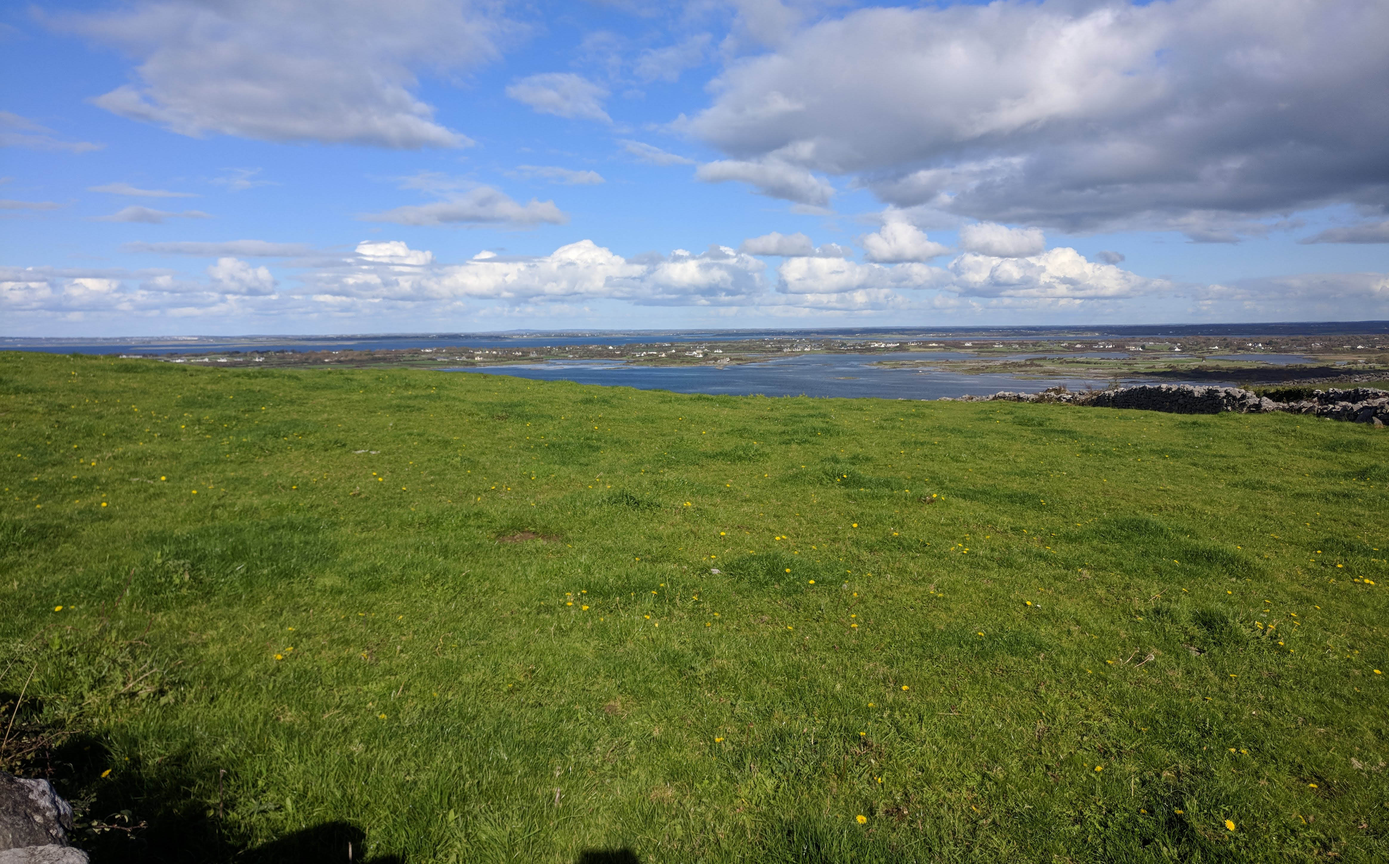
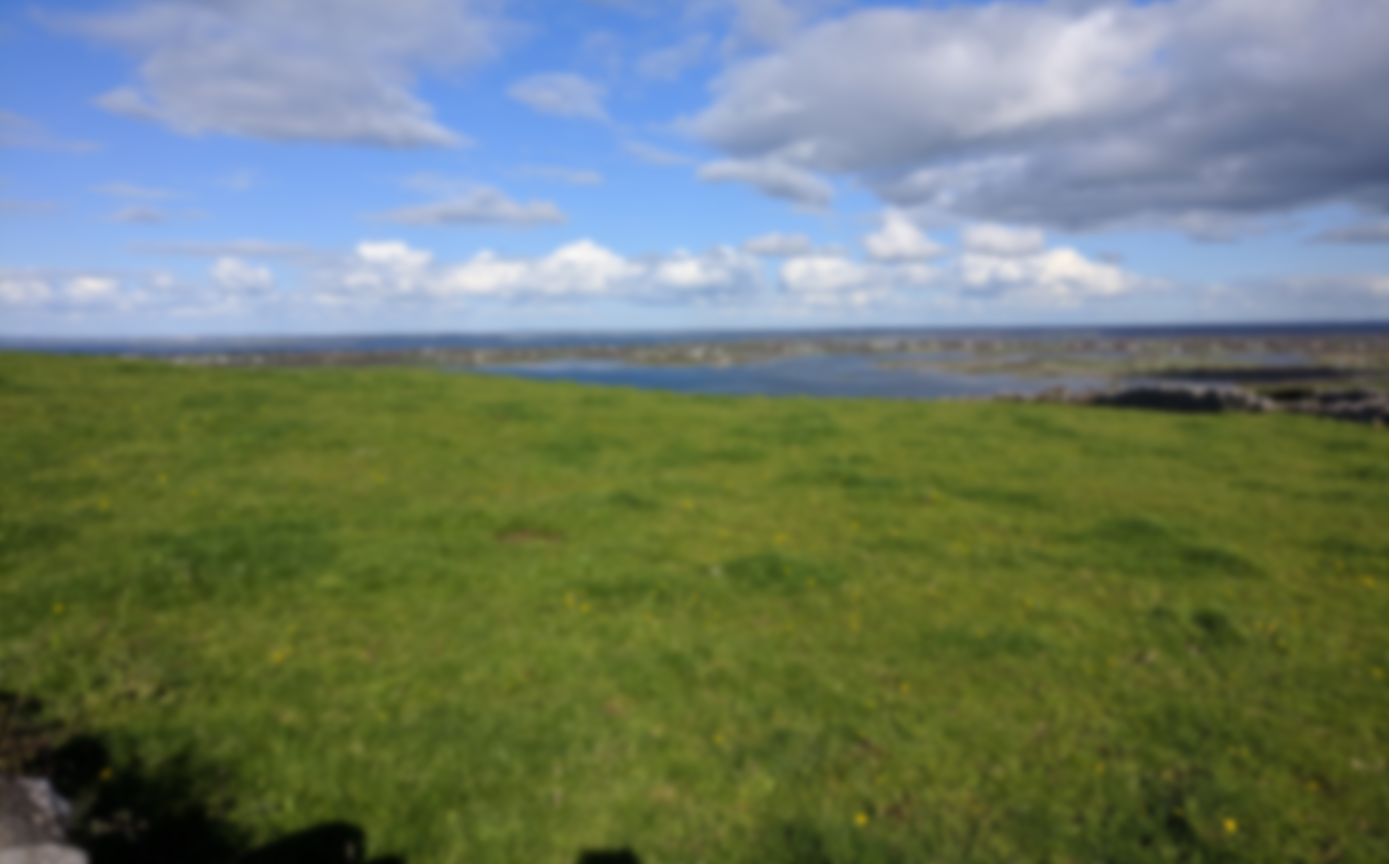
Moved Title on Homepage to be directly behind the background, Added Steam Copyright Notice, Edited some Images

diff --git a/pages/index.vue b/pages/index.vue
@@ -4,20 +4,9 @@
       <v-parallax src="/images/GreenCutted.jpg" height="700">
         <v-container>
           <v-layout align-center justify-center column fill-height>
-            <v-flex xs10 md8 lg6>
-              <v-card>
-                <v-card-title class="display-1">
-                  <v-layout row justify-center>
-                    Willkommen!
-                  </v-layout>
-                </v-card-title>
-                <v-card-text>
-                  Mein Name ist Falk Drieschner, bin Männlich, {{ $moment().diff($moment('1999-02-01'), 'years') }} Jahre alt und aktuell Auszubildender für den Beruf "Fachinformatiker/-in Fachbereich Anwendungsentwicklung".<br>
-                  Anwendungsentwicklung ist nicht nur mein Job sondern auch meine Leidenschaft.<br>
-                  Online bewege ich mich vielfach unter dem Synonym "Chickenbread", manchmal auch mit den Anhängen "lp" oder "-Designs".
-                </v-card-text>
-              </v-card>
-            </v-flex>
+            <p class="display-2 text--elevation-5">
+              Willkommen!
+            </p>
           </v-layout>
         </v-container>
       </v-parallax>
@@ -28,8 +17,15 @@
         <v-flex xs10 md8 lg6>
           <div width="100%">
             <p>
-              In meiner Freizeit entwickle ich gerne kleinere Hilfsanwendungen und helfe bei anderen Open-Source Projekten mit.<br>
+              Mein Name ist Falk Drieschner, bin Männlich, {{ $moment().diff($moment('1999-02-01'), 'years') }} Jahre alt und aktuell Auszubildender für den Beruf "Fachinformatiker/-in Fachbereich Anwendungsentwicklung".<br>
+              Anwendungsentwicklung ist nicht nur mein Job sondern auch meine Leidenschaft.<br>
+              In meiner Freizeit entwickle ich gerne kleinere Hilfsanwendungen und helfe bei anderen Open-Source Projekten mit.
+            </p>
+            <p>
               Ganz unten, auf jeder Seite, finden Sie Kontakmöglichkeiten.<br>
+              Online bewege ich mich vielfach unter dem Synonym "Chickenbread", manchmal auch mit den Anhängen "lp" oder "-Designs".
+            </p>
+            <p>
               Ich habe ein sehr großes Interessen-Spektrum.<br>
               Soft- und Hardware, Virtualisierung und Emulation, Videobearbeitung und Steaming. Nur um ein paar Beispiele zu nennen.
             </p>
@@ -72,6 +68,7 @@
                             align-center
                             justify-center
                             ma-0
+                            style="filter: none;"
                           >
                             <v-progress-circular indeterminate color="grey lighten-5"></v-progress-circular>
                           </v-layout>
@@ -160,3 +157,18 @@ export default {
   }
 }
 </script>
+
+<style>
+  .text--elevation-3 {
+    text-shadow:
+    0px 3px 3px rgba(0,0,0,0.2),
+    0px 3px 4px rgba(0,0,0,0.14),
+    0px 1px 8px rgba(0,0,0,0.12);
+  }
+  .text--elevation-5 {
+    text-shadow:
+    0px 3px 5px rgba(0,0,0,0.2),
+    0px 5px 8px rgba(0,0,0,0.14),
+    0px 1px 14px rgba(0,0,0,0.12)
+  }
+</style>

diff --git a/layouts/default.vue b/layouts/default.vue
@@ -182,8 +182,8 @@ export default {
     background-image: linear-gradient(to top, rgba(0, 0, 0, 0.4) 0%, transparent 72px);
   }
   .darkbox {
-    box-shadow: 0 0 20px inset rgba(255, 255, 255, 0.2);
-    background-image: linear-gradient(to top, rgba(255, 255, 255, 0.4) 0%, transparent 72px);
+    box-shadow: 0 0 20px inset rgba(255, 255, 255, 0.5);
+    background-image: linear-gradient(to top, rgba(255, 255, 255, 0.8) 0%, transparent 72px);
   }
 </style>
 <style scoped>

diff --git a/pages/resources.vue b/pages/resources.vue
@@ -18,7 +18,7 @@
           GITHUB®, the GITHUB® logo design, OCTOCAT® and the OCTOCAT® logo design are exclusive trademarks registered in the United States by GitHub, Inc.
         </p>
         <p>
-          STEAM (kein Zugriff auf diese Infos bei der Arbeit...)
+          Steam and the Steam logo are trademarks and/or registered trademarks of Valve Corporation in the U.S. and/or other countries.
         </p>
       </v-card-text>
     </v-card>

diff --git a/pages/about.vue b/pages/about.vue
@@ -101,7 +101,7 @@ export default {
             title: 'Lua',
             icon:'/icons/Lua-logo-nolabel.svg',
             subtitle: "Hauptsächlich durch ComputerCraft angelehrnt - Bisher keine nennenswerte Projekte",
-            link: 'http://computercraft.info/'
+            link: 'http://www.computercraft.info/forums2/'
           },
           { divider: true, inset: true },
           {
